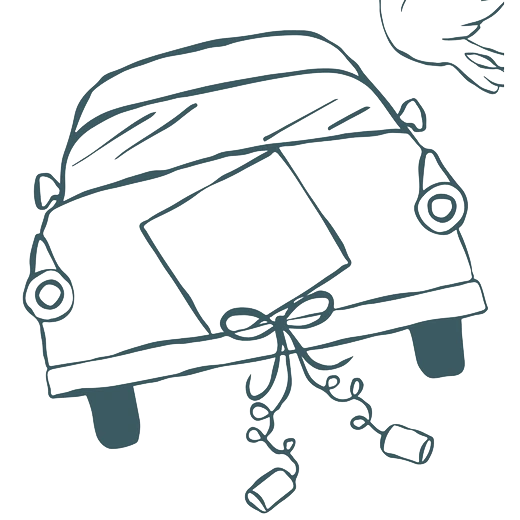
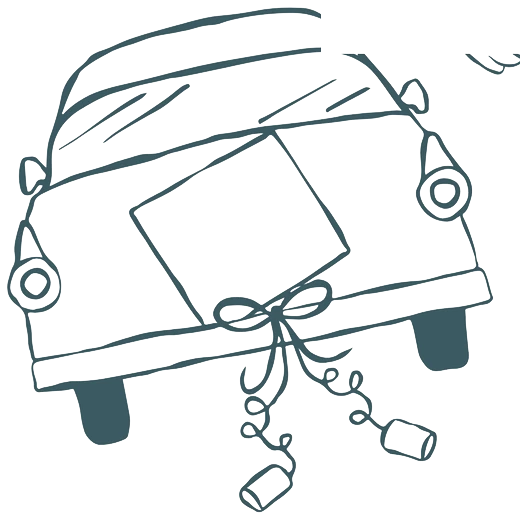
Cronograma en zigzag, cuenta atrás animada y limpieza de iconos
- El cronograma pone la línea en el centro también en móvil y manda cada hito
  entero a un lado, alternando. Antes el dibujo iba montado sobre la línea y a
  anchos pequeños se cortaba: el corazón de la ceremonia salía partido.
- Vuelven días, horas, minutos y segundos, dentro del marco: cada cifra entra
  por abajo y la anterior sale por arriba, así que el segundero se mueve.
- El coche de los autobuses se recorta de nuevo sin la paloma, que asomaba
  cortada por la esquina.
- Fuera las ilustraciones sobre "Datos de Interés" y "Confirma tu asistencia".
- Fuera los emojis: el de "Sí, asistiré" y la bailarina del texto de música.
- La sección de música recupera ilustración: las notas de la carta de barra.

diff --git a/app/page.tsx b/app/page.tsx
@@ -753,13 +753,36 @@ export default function Home() {
                 </p>
               ) : (
                 <>
-                  <p className="font-serif text-muted text-[26px] leading-none">{wedding.countdown.lead}</p>
-                  <p className="font-serif text-ink text-[clamp(5rem,26vw,8rem)] leading-[1.05] my-2">
-                    {timeLeft.days}
-                  </p>
-                  <p className="font-display uppercase tracking-[0.3em] text-ink text-xs font-semibold">
-                    {timeLeft.days === 1 ? wedding.countdown.unitSingular : wedding.countdown.unit}
-                  </p>
+                  <p className="font-serif text-muted text-[26px] leading-none mb-6">{wedding.countdown.lead}</p>
+                  <div className="grid grid-cols-2 sm:grid-cols-4 gap-y-6 gap-x-2">
+                    {([
+                      ['days', wedding.countdown.labels.days],
+                      ['hours', wedding.countdown.labels.hours],
+                      ['minutes', wedding.countdown.labels.minutes],
+                      ['seconds', wedding.countdown.labels.seconds],
+                    ] as const).map(([unidad, rotulo]) => (
+                      <div key={unidad} className="text-center">
+                        {/* Cada cifra entra por abajo y la anterior sale por arriba */}
+                        <div className="relative h-[52px] md:h-[60px] overflow-hidden">
+                          <AnimatePresence initial={false}>
+                            <motion.span
+                              key={timeLeft[unidad]}
+                              initial={{ y: '65%', opacity: 0 }}
+                              animate={{ y: '0%', opacity: 1 }}
+                              exit={{ y: '-65%', opacity: 0 }}
+                              transition={{ duration: 0.45, ease: [0.22, 1, 0.36, 1] }}
+                              className="absolute inset-0 flex items-center justify-center font-serif text-ink text-[46px] md:text-[54px] leading-none"
+                            >
+                              {timeLeft[unidad]}
+                            </motion.span>
+                          </AnimatePresence>
+                        </div>
+                        <p className="font-display uppercase tracking-[0.18em] text-muted text-[9px] font-semibold mt-1">
+                          {rotulo}
+                        </p>
+                      </div>
+                    ))}
+                  </div>
                 </>
               )}
             </motion.div>
@@ -857,51 +880,51 @@ export default function Home() {
             {/* TIMELINE TRACK */}
             <div className="relative mt-12 pl-8 md:pl-0">
               {/* Center line */}
-              <div className="absolute left-[60px] md:left-1/2 top-0 bottom-0 w-px bg-primary/20 transform md:-translate-x-1/2" />
+              <div className="absolute left-1/2 top-0 bottom-0 w-px bg-primary/20 transform -translate-x-1/2" />
 
-              <div className="space-y-16">
+              <div className="space-y-10 md:space-y-16">
                 {wedding.itinerary.events.map((event, i) => {
-                  const alignLeft = i % 2 === 0;
+                  const izquierda = i % 2 === 0;
                   return (
                     <motion.div
                       key={event.title}
-                      initial={{ opacity: 0, y: 60, scale: 0.92 }}
+                      initial={{ opacity: 0, y: 50, scale: 0.94 }}
                       whileInView={{ opacity: 1, y: 0, scale: 1 }}
                       viewport={{ once: true, margin: "-60px" }}
                       transition={{ type: "spring", stiffness: 90, damping: 13 }}
-                      className="relative flex flex-col md:flex-row items-start md:items-center min-h-[48px]"
+                      className="relative flex"
                     >
-                      {event.image && (
-                        <div className="absolute left-[60px] md:left-1/2 transform -translate-x-1/2 flex items-center justify-center z-10">
-                          <div className="relative w-28 h-28 md:w-36 md:h-36">
+                      {/* Punto sobre la línea, a la altura del hito */}
+                      <span
+                        aria-hidden
+                        className="absolute left-1/2 top-8 -translate-x-1/2 w-1.5 h-1.5 rounded-full bg-primary/40"
+                      />
+
+                      <div
+                        className={`w-1/2 flex flex-col ${
+                          izquierda
+                            ? 'pr-5 md:pr-12 items-end text-right'
+                            : 'ml-auto pl-5 md:pl-12 items-start text-left'
+                        }`}
+                      >
+                        {event.image && (
+                          <div className="relative w-24 h-24 md:w-32 md:h-32 mb-1">
                             <Image
                               src={event.image}
                               alt={event.title}
                               fill
-                              className="object-contain"
+                              className={`object-contain ${izquierda ? 'object-right' : 'object-left'}`}
                               referrerPolicy="no-referrer"
                             />
                           </div>
-                        </div>
-                      )}
-
-                      {/* Columna vacía para alternar el lado en escritorio */}
-                      {!alignLeft && <div className="w-full md:w-1/2 hidden md:block" />}
-
-                      <div
-                        className={`w-full md:w-1/2 mt-1 pl-[104px] sm:pl-[130px] ${
-                          alignLeft ? 'md:pr-28 md:text-right md:pl-0' : 'md:pl-28'
-                        }`}
-                      >
+                        )}
                         <div className="inline-block px-3 py-1 bg-primary/5 border border-primary/15 rounded-full text-ink font-display text-xs mb-2 font-semibold">
                           {event.time}
                         </div>
-                        <h4 className="text-[clamp(1.25rem,6vw,2.1rem)] leading-tight text-ink font-display font-semibold">
+                        <h4 className="text-[clamp(1.15rem,5.4vw,2.1rem)] leading-tight text-ink font-display font-semibold">
                           {event.title}
                         </h4>
                       </div>
-
-                      {alignLeft && <div className="w-full md:w-1/2 hidden md:block" />}
                     </motion.div>
                   );
                 })}

diff --git a/config/wedding.ts b/config/wedding.ts
@@ -164,9 +164,13 @@ export const wedding = {
   countdown: {
     /** Texto pequeño sobre el número. */
     lead: 'Faltan',
-    /** Unidad bajo el número. Se usa el singular cuando queda un solo día. */
-    unit: 'días',
-    unitSingular: 'día',
+    /** Rótulo bajo cada número. */
+    labels: {
+      days: 'Días',
+      hours: 'Horas',
+      minutes: 'Minutos',
+      seconds: 'Segundos',
+    },
     /** Qué poner el mismo día de la boda y a partir de entonces. */
     today: '¡Hoy nos casamos!',
     past: 'Nos casamos',
@@ -235,9 +239,9 @@ export const wedding = {
     enabled: true,
     title: 'Ayúdanos con la música',
     description:
-      '¿Qué canciones te gustaría que sonaran en la fiesta? Compártelas con nosotros y las añadiremos a la playlist para darlo todo en la pista 💃',
+      '¿Qué canciones te gustaría que sonaran en la fiesta? Compártelas con nosotros y las añadiremos a la playlist para darlo todo en la pista.',
     ctaLabel: 'Sugerir Canciones',
-    image: '',
+    image: '/invitacion/icono-musica.webp',
     /**
      * `true` arranca la canción de fondo en cuanto el invitado toca la pantalla.
      * `false` (por defecto) la deja en silencio hasta que pulse el altavoz.
@@ -292,7 +296,7 @@ export const wedding = {
   rsvp: {
     title: 'Confirma tu asistencia',
     /** Ilustración sobre el título. Cadena vacía para no mostrar ninguna. */
-    image: '/invitacion/flor-ceremonia.webp',
+    image: '',
     /** Fecha límite mostrada en el formulario y en la introducción. */
     deadline: '26 de septiembre',
     bus: {
@@ -310,7 +314,7 @@ export const wedding = {
     eyebrow: 'Información',
     title: 'Datos de Interés',
     /** Ilustración sobre el título. Cadena vacía para no mostrar ninguna. */
-    image: '/invitacion/flor-celebracion.webp',
+    image: '',
     /**
      * Tarjetas informativas. Añade o quita las que necesites.
      * `image` es opcional: se dibuja en blanco sobre el verde de la tarjeta.

diff --git a/components/RSVPForm.tsx b/components/RSVPForm.tsx
@@ -362,7 +362,7 @@ export default function RSVPForm({ onSubmitted, onEdit, rsvpData, formSubmitted 
                 onClick={() => handleAttendance(true)}
                 className="flex-1 py-4 bg-primary hover:bg-primary/90 text-white font-display text-xs uppercase tracking-[0.2em] rounded-full transition-all duration-300 shadow hover:shadow-md hover:scale-[1.02] active:scale-[0.99] font-semibold"
               >
-                Sí, asistiré 🎉
+                Sí, asistiré
               </button>
               <button
                 type="button"
